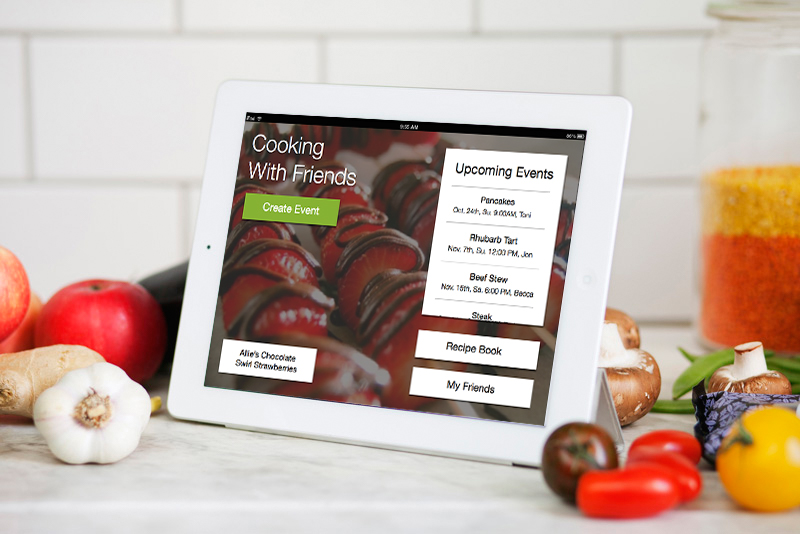
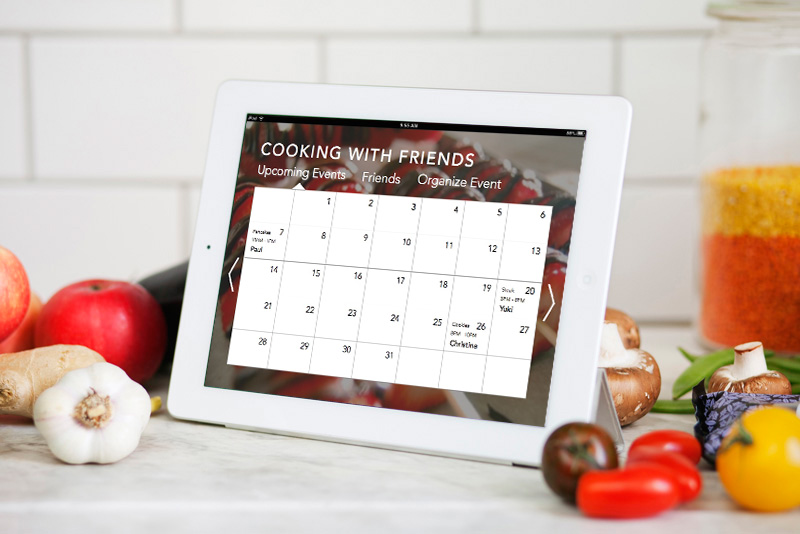
added higher-fidelity collaborative cooking app

Changed region(s): [[0.25, 0.2097, 0.75, 0.809]]

diff --git a/uiuxdesign.html b/uiuxdesign.html
@@ -296,10 +296,10 @@
           <div class = "col-md-2"></div>
 
           <div class = "col-md-4">
-            <img src = "HFID_images/horizontal_timeline.jpg" alt="Task Flow Analysis" class="photo_two" style = "width:100%">
+            <img src = "HFID_images/horizontal_timeline.jpg" alt="app with horizontal timeline" class="photo_two" style = "width:100%">
           </div>
           <div class = "col-md-4">
-            <img src = "HFID_images/vertical timeline.jpg" alt="Task Flow Analysis" class="photo_two" style = "width:100%">
+            <img src = "HFID_images/vertical timeline.jpg" alt="app with vertical timeline" class="photo_two" style = "width:100%">
           </div>        
           <div class = "col-md-2"></div>
           <!-- <div class = "col-md-4">
@@ -307,20 +307,36 @@
             <img src = "HFID_images/Homepage_paper.jpg" alt="Task Flow Analysis" class="photo_two" style = "width:100%">
           </div> -->
         </div>
-
         <div class = "col-md-2"></div>
         <div class = "col-md-8">
           <!-- Add More refined mockups. -->
+          <h2> Final Class Deliverable: Click-Through Mockup </h3>
+          <p class = "lead">
+            At the end of the class, my team mates and I produced a click-through mockup. I helped write the HTML and CSS for the application. 
+          </p> 
+          <a href="http://hfid.olin.edu/sa2013/s_engr3220-fallera/assignments/demo%202/mainpage_v1.html">
+           <img src = "HFID_images/homepage.jpg" alt="click-through mockup from HFID" class="photo_two" style = "width:100%">
+          </a>
+
+        </div>
+        <div class = "col-md-2"></div>
+      </div>
+      <div class="col-md-12">
+        <div class = "col-md-2"></div>
+        <div class = "col-md-8">
           <h2> Higher-Fidelity Mockup </h3>
           <p class = "lead">
-          This higher fidelity mockup was created in Sketch.  
+            Looking back on this project, I saw many ways that the UI could be improved. When the first version was designed back in 2012, we did not know how much information could reasonably fit into a single page on an iPad and other mobile devices. This new version simplifies navigation by making better use of the screen real-estate. 
+          </p>
+          <p class="lead">
+            This higher fidelity mockup was created in Sketch, and the click-through mockup is available through inVision. 
           </p> 
-
-           <img src = "HFID_images/Cooking With Friends_Home.jpg" alt="Task Flow Analysis" class="photo_two" style = "width:100%">
-
+          <a target="Invision Prototype" href="https://invis.io/9Z7W8MEPM">
+            <img src = "HFID_images/Upcoming Event iPad.jpg" alt="Mockup on iPad" class="photo_two" style = "width:100%">
+          </a>
             <!-- /END THE FEATURETTES -->
         </div>
-
+      </div>
 
 
       <div class="row featurette col-md-12" id = "collaborate">
